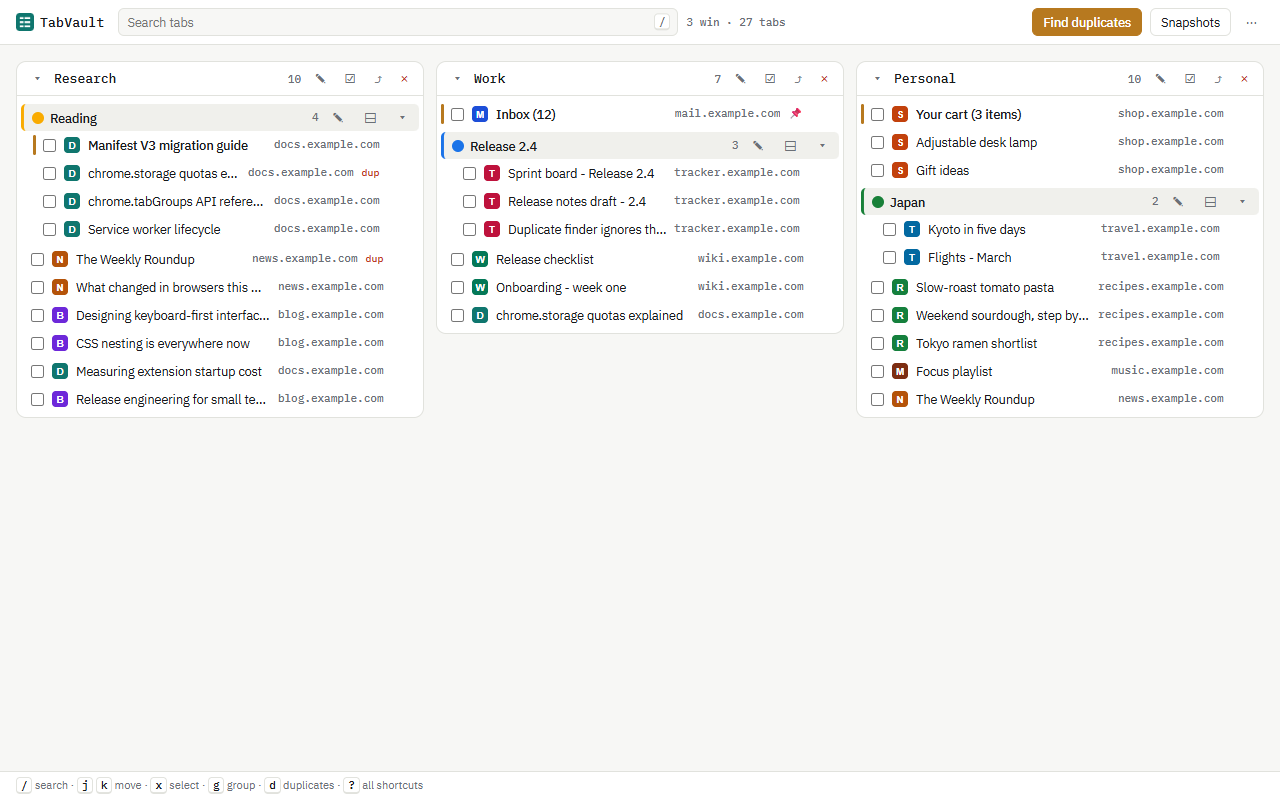
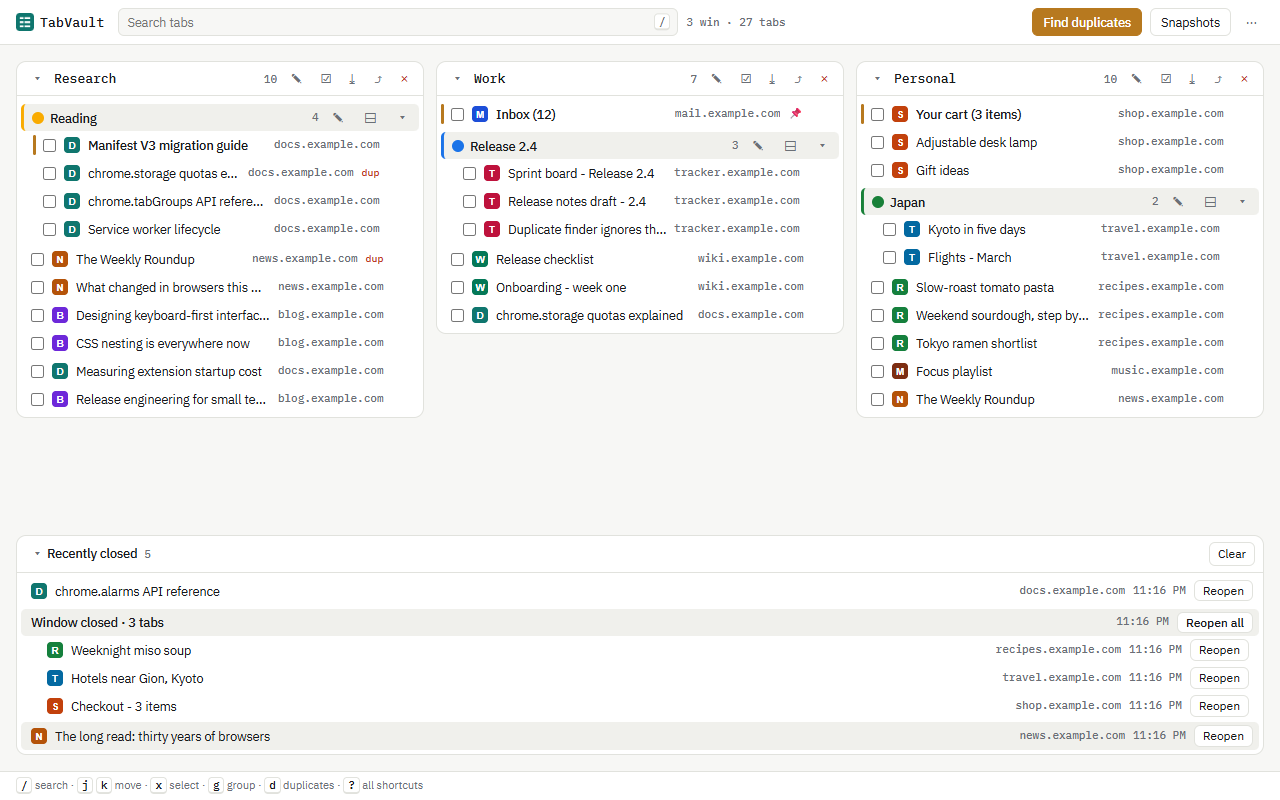
1.2.0: version, store summary, and the five screenshots regenerated with the new sections
Screenshots: all windows with Recently closed opened below, the command palette, Settings with Unload idle tabs, duplicates, snapshots with a named save-and-close snapshot (02-search and 03-selection retired). The recently-closed entries are real closes recorded by the worker; snapshots are seeded through lib/snapstore.js. All 1280x800, 8-bit RGB. Snapshot rows say 1 window / 1 tab.

Claude-Session: https://claude.ai/code/session_01X12b3pWuRs7mmn4nEgqE8A

diff --git a/tools/screenshots.js b/tools/screenshots.js
@@ -8,7 +8,8 @@
 // Run: npm run screenshots
 //
 // Output:
-//   docs/store/screenshots/01..05-*.png   1280x800
+//   docs/store/screenshots/01..05-*.png   1280x800 (all windows, command palette,
+//                                         unload idle tabs, duplicates, snapshots)
 //   docs/store/promo-tile-440x280.png     440x280 (from docs/store/promo-tile.html)
 //
 // The example pages are served locally on port 8771 (e2e/server.js owns 8765;
@@ -67,9 +68,21 @@ const PAGES = [
   { host: "music.example.com", p: "/focus", title: "Focus playlist", color: "#7c2d12", letter: "M" },
 ];
 
-const byPath = new Map(PAGES.map((x) => [x.p, x]));
+// Pages opened and closed again before the screenshots, so the Recently closed list (1.2)
+// holds real entries recorded by the worker.
+const CLOSED_PAGES = [
+  { host: "news.example.com", p: "/long-read", title: "The long read: thirty years of browsers", color: "#b45309", letter: "N" },
+  { host: "shop.example.com", p: "/checkout", title: "Checkout - 3 items", color: "#c2410c", letter: "S" },
+  { host: "travel.example.com", p: "/hotels", title: "Hotels near Gion, Kyoto", color: "#0369a1", letter: "T" },
+  { host: "recipes.example.com", p: "/miso-soup", title: "Weeknight miso soup", color: "#15803d", letter: "R" },
+  { host: "docs.example.com", p: "/alarms-api", title: "chrome.alarms API reference", color: "#0f766e", letter: "D" },
+];
+
+const byPath = new Map(PAGES.concat(CLOSED_PAGES).map((x) => [x.p, x]));
 const U = {};
 for (const x of PAGES) U[x.p] = "http://" + x.host + x.p;
+const C = {};
+for (const x of CLOSED_PAGES) C[x.p] = "http://" + x.host + x.p;
 
 function faviconHref(color, letter) {
   const svg =
@@ -333,6 +346,44 @@ async function main() {
     const workTabs = await tabsOf(work.id);
     await sw((id) => chrome.tabs.update(id, { pinned: true }), pick(workTabs, "/inbox").id);
 
+    // ---- seed the Recently closed list ---------------------------------------
+    // Real closes recorded by the worker: one tab, then a window of three, then one more.
+    const openAndWait = async (urls) => {
+      const win = await newWindow(urls, 160, 160);
+      const deadlineClosed = Date.now() + 20000;
+      for (;;) {
+        const list = await tabsOf(win.id);
+        const ready = urls.every((u) => list.some((t) => t.url === u && t.title && t.title === byPath.get(new URL(u).pathname).title));
+        if (ready) return { win, list };
+        if (Date.now() > deadlineClosed) throw new Error("closed-list pages did not load: " + JSON.stringify(list.map((t) => [t.url, t.title])));
+        await sleep(300);
+      }
+    };
+    const single = await openAndWait([C["/long-read"], U["/weekly"]]);
+    await sw((id) => chrome.tabs.remove(id), pick(single.list, "/long-read").id);
+    await sleep(300);
+    await sw((id) => chrome.windows.remove(id), single.win.id);
+    await sleep(400);
+    const batch = await openAndWait([C["/checkout"], C["/hotels"], C["/miso-soup"]]);
+    await sw((id) => chrome.windows.remove(id), batch.win.id);
+    await sleep(600);
+    const last = await openAndWait([C["/alarms-api"], U["/weekly"]]);
+    await sw((id) => chrome.tabs.remove(id), pick(last.list, "/alarms-api").id);
+    await sleep(300);
+    await sw((id) => chrome.windows.remove(id), last.win.id);
+    // The two helper windows' leftover tabs (/weekly) were recorded too; keep only the five
+    // closes above, newest first, so the list reads like an afternoon's work.
+    await sw(async (wanted) => {
+      const deadline = Date.now() + 10000;
+      let list = [];
+      while (Date.now() < deadline) {
+        list = (await chrome.storage.local.get("recentlyClosed")).recentlyClosed || [];
+        if (wanted.every((u) => list.some((e) => e.url === u))) break;
+        await new Promise((r) => setTimeout(r, 200));
+      }
+      await chrome.storage.local.set({ recentlyClosed: list.filter((e) => wanted.includes(e.url)) });
+    }, [C["/long-read"], C["/checkout"], C["/hotels"], C["/miso-soup"], C["/alarms-api"]]);
+
     // ---- seed a snapshot history ------------------------------------------
     // Real snapshot records built by the extension's own lib/snapshots.js from
     // the live session, back-dated so the list looks like a normal day's
@@ -351,7 +402,11 @@ async function main() {
         { session: slice(2), reason: "change", at: minutes(233) },
         { session: slice(1), reason: "startup", at: minutes(391) },
       ];
-      // Written through lib/snapstore.js (storage version 2: an index plus one key per snapshot).
+      // Written through lib/snapstore.js (storage version 2: an index plus one key per snapshot),
+      // after dropping whatever the worker took while the fixtures opened, and with the pending
+      // change alarm cleared so no new row lands while the screenshots are taken.
+      await chrome.alarms.clear("tabvault-snapshot");
+      for (const old of await self.TabVault.listSnapshots(chrome.storage.local)) await self.TabVault.deleteSnapshot(chrome.storage.local, old.id);
       for (const x of plan.slice().reverse()) await self.TabVault.addSnapshot(chrome.storage.local, self.TabVault.makeSnapshot(x.session, x.reason, x.at), 20);
     });
 
@@ -378,33 +433,42 @@ async function main() {
       console.log("wrote " + file);
     };
 
-    // 01 — the whole session at a glance
+    // 01 — the whole session at a glance, with the Recently closed section opened below
+    await app.click("#recent-toggle");
+    await app.waitForFunction(() => document.querySelectorAll("#recent-list .rrow").length >= 5);
+    await app.waitForFunction(() => Array.from(document.images).every((i) => i.complete));
+    await sleep(500);
     await shot("01-all-windows.png");
 
-    // 02 — search across every window
-    await app.click("#search");
-    await app.fill("#search", "release");
-    await app.waitForFunction(() => document.querySelector("#counts").textContent.includes(" of "));
+    // 02 — the command palette (Alt+K): actions with their keys, then matching tabs
+    await app.keyboard.press("Alt+K");
+    await app.waitForSelector("#palette-backdrop:not([hidden])");
+    await app.keyboard.type("s");
+    await app.waitForFunction(() => document.querySelectorAll('#palette-list .prow[data-kind="tab"]').length > 0);
+    await app.waitForFunction(() => Array.from(document.images).every((i) => i.complete));
     await sleep(400);
-    await shot("02-search.png");
-    await app.fill("#search", "");
-    await app.waitForFunction(() => !document.querySelector("#counts").textContent.includes(" of "));
+    await shot("02-command-palette.png");
+    await app.keyboard.press("Escape");
+    await app.waitForFunction(() => document.getElementById("palette-backdrop").hidden);
 
-    // 03 — multi-select and the bulk-action bar
-    const personalTabs = await tabsOf(personal.id);
-    const selection = [
-      pick(personalTabs, "/cart").id,
-      pick(personalTabs, "/desk-lamp").id,
-      pick(personalTabs, "/gift-ideas").id,
-      pick(personalTabs, "/weekly").id,
-    ];
-    for (const id of selection) {
-      await app.click('.tab[data-tab="' + id + '"] input[type=checkbox]');
-    }
-    await app.waitForSelector("#selbar:not([hidden])");
+    // 03 — Settings: unload idle tabs. The boxes are ticked and filled on screen only (Cancel
+    // below, nothing saved), so no alarm discards anything while this script runs; the last-run
+    // line reads a run record written here, since a real run's chrome.tabs.discard crashes
+    // Playwright's Chromium (see CLAUDE.md).
+    await app.evaluate(() => chrome.storage.session.set({ "autoDiscard.lastRun": { at: Date.now() - 4 * 60000, unloaded: 7, failed: 0, waiting: 0, manual: false } }));
+    await app.click("#btn-more");
+    await app.click("#btn-settings");
+    await app.waitForSelector("#ad-enabled");
+    await app.check("#ad-enabled");
+    await app.fill("#ad-allow", ["mail.example.com", "*.tracker.example.com"].join(String.fromCharCode(10)));
+    await app.waitForFunction(() => document.getElementById("ad-last-run").textContent.includes("unloaded"));
+    // From the top: the title and every 1.2 row show; only the Save row falls below the fold.
+    await app.$eval("#dialog", (box) => { box.scrollTop = 0; });
+    await app.evaluate(() => { if (document.activeElement) document.activeElement.blur(); });
     await sleep(400);
-    await shot("03-selection.png");
-    await app.click("#sel-clear");
+    await shot("03-unload-idle-tabs.png");
+    await app.click('#dialog button:has-text("Cancel")');
+    await app.waitForFunction(() => document.getElementById("dialog-backdrop").hidden);
 
     // 04 — the duplicate finder (two URLs are open twice in the seeded session)
     await app.click("#btn-dupes");
@@ -415,12 +479,14 @@ async function main() {
     await app.click("#dialog-backdrop", { position: { x: 5, y: 5 } });
     await app.waitForFunction(() => document.getElementById("dialog-backdrop").hidden);
 
-    // 05 — snapshots, including a manual one taken right now through the UI
+    // 05 — snapshots: a named, kept save-and-close snapshot of the Personal window (the worker's
+    // own takeSnapshot, without closing anything), and a manual one taken through the UI
+    await sw((id) => self.takeSnapshot("save-close", { windowIds: [id], name: self.TabVault.snapshotName("Personal", Date.now() - 52 * 60000), pinned: true }), personal.id);
     await app.click("#btn-snapshots");
     await app.waitForSelector("#dialog h2");
     await app.click('#dialog button:has-text("Snapshot now")');
-    await app.waitForFunction(() => document.querySelectorAll("#dialog .row[data-snapshot]").length >= 5, null, { timeout: 15000 });
-    await sleep(800);
+    await app.waitForFunction(() => document.querySelectorAll("#dialog .row[data-snapshot]").length >= 6, null, { timeout: 15000 });
+    await sleep(2200); // let the "Snapshot saved" toast fade
     await shot("05-snapshots.png");
     await app.click("#dialog-backdrop", { position: { x: 5, y: 5 } });
 

diff --git a/app/dialogs.js b/app/dialogs.js
@@ -244,7 +244,7 @@
         list.append(el("div", { class: "row snap", dataset: { snapshot: s.id } },
           el("span", { title: s.name ? `${s.name} · ${fmt(s.takenAt)}` : fmt(s.takenAt) }, s.name || fmt(s.takenAt)),
           el("span", { class: "muted" }, `${s.reason}${s.pinned ? " · kept" : ""}`),
-          el("span", { class: "muted" }, `${s.windows} windows · ${s.tabs} tabs`),
+          el("span", { class: "muted" }, `${s.windows} window${s.windows === 1 ? "" : "s"} · ${s.tabs} tab${s.tabs === 1 ? "" : "s"}`),
           el("button", { onclick: async () => { const snap = await full(s); if (snap) showRestore(box, snap.session, "Snapshot"); } }, "Restore"),
           el("button", { onclick: async () => { const snap = await full(s); if (!snap) return; const f = TV.toJsonFile(snap.session, { now: s.takenAt, version: VERSION }); download(f.filename, f.text); toast("Exported"); } }, "Export"),
           el("button", { onclick: async () => { await chrome.runtime.sendMessage({ type: "pinSnapshot", id: s.id, pinned: !s.pinned }); draw(); } }, s.pinned ? "Unkeep" : "Keep"),
